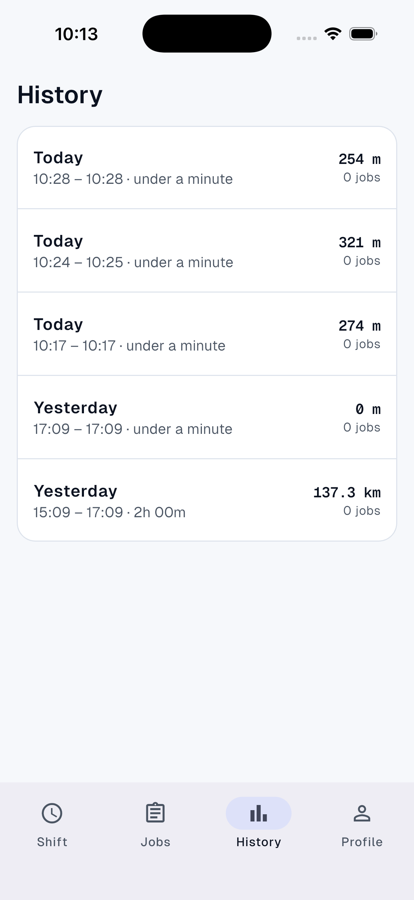
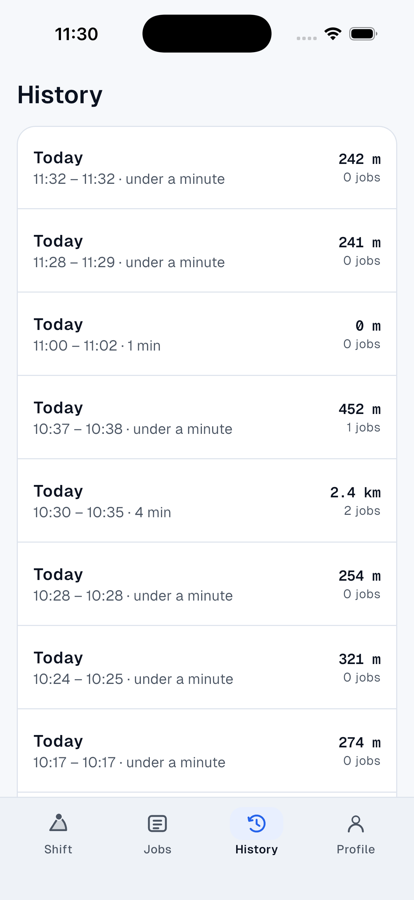
Driver app: custom tab bar matching the console's nav rail

diff --git a/mobile/lib/ui/tab_bar.dart b/mobile/lib/ui/tab_bar.dart
@@ -1,0 +1,207 @@
+import 'package:flutter/material.dart';
+
+import 'theme.dart';
+
+enum TabIcon { shift, jobs, history, profile }
+
+class TabItem {
+  const TabItem(this.icon, this.label, {this.badge = false});
+  final TabIcon icon;
+  final String label;
+
+  /// A small dot for something waiting on that tab.
+  final bool badge;
+}
+
+/// The app's tab bar, styled like the console's nav rail: a sunken strip,
+/// the console's stroke icons, and a rounded tile behind the current tab.
+/// The Shift tab is the Sweep mark; its vehicle dot turns amber while live.
+class RadianTabBar extends StatelessWidget {
+  const RadianTabBar({super.key, required this.items, required this.index, required this.onSelect, this.live = false});
+
+  final List<TabItem> items;
+  final int index;
+  final ValueChanged<int> onSelect;
+  final bool live;
+
+  @override
+  Widget build(BuildContext context) {
+    final dark = Theme.of(context).brightness == Brightness.dark;
+    // The console's --sunken, --line and --rail-active.
+    final sunken = dark ? const Color(0xFF0D1525) : const Color(0xFFEEF2F7);
+    final line = dark ? const Color(0x1AFFFFFF) : const Color(0xFFDDE3EC);
+    final tile = dark ? const Color(0xFF172238) : const Color(0xFFE8EFFE);
+    final scheme = Theme.of(context).colorScheme;
+    final accent = dark ? signalBlue : radianBlue;
+
+    return DecoratedBox(
+      decoration: BoxDecoration(color: sunken, border: Border(top: BorderSide(color: line))),
+      child: SafeArea(
+        top: false,
+        child: Padding(
+          padding: const EdgeInsets.fromLTRB(8, 6, 8, 4),
+          child: Row(children: [
+            for (var i = 0; i < items.length; i++)
+              Expanded(
+                child: _Tab(
+                  item: items[i],
+                  selected: i == index,
+                  onTap: () => onSelect(i),
+                  tile: tile,
+                  accent: accent,
+                  fg: scheme.onSurface,
+                  muted: scheme.onSurfaceVariant,
+                  ground: sunken,
+                  live: live,
+                ),
+              ),
+          ]),
+        ),
+      ),
+    );
+  }
+}
+
+class _Tab extends StatelessWidget {
+  const _Tab({
+    required this.item,
+    required this.selected,
+    required this.onTap,
+    required this.tile,
+    required this.accent,
+    required this.fg,
+    required this.muted,
+    required this.ground,
+    required this.live,
+  });
+
+  final TabItem item;
+  final bool selected;
+  final VoidCallback onTap;
+  final Color tile, accent, fg, muted, ground;
+  final bool live;
+
+  @override
+  Widget build(BuildContext context) {
+    final color = selected ? accent : muted;
+    return Semantics(
+      button: true,
+      selected: selected,
+      label: item.label,
+      excludeSemantics: true,
+      child: GestureDetector(
+        behavior: HitTestBehavior.opaque,
+        onTap: onTap,
+        child: SizedBox(
+          height: 56,
+          child: Column(mainAxisAlignment: MainAxisAlignment.center, children: [
+            AnimatedContainer(
+              duration: const Duration(milliseconds: 180),
+              curve: Curves.easeOut,
+              width: 52,
+              height: 32,
+              decoration: BoxDecoration(color: selected ? tile : tile.withValues(alpha: 0), borderRadius: BorderRadius.circular(12)),
+              child: Center(
+                child: CustomPaint(
+                  size: const Size.square(22),
+                  painter: _IconPainter(
+                    item.icon,
+                    color: color,
+                    ground: selected ? tile : ground,
+                    live: live,
+                    badge: item.badge ? accent : null,
+                  ),
+                ),
+              ),
+            ),
+            const SizedBox(height: 3),
+            Text(
+              item.label,
+              style: TextStyle(fontSize: 11.5, height: 1.1, fontWeight: selected ? FontWeight.w600 : FontWeight.w500, color: selected ? fg : muted),
+            ),
+          ]),
+        ),
+      ),
+    );
+  }
+}
+
+/// The console's icons (web/src/console/ui.tsx) on the same 24-unit grid,
+/// 2-unit round strokes.
+class _IconPainter extends CustomPainter {
+  _IconPainter(this.icon, {required this.color, required this.ground, required this.live, this.badge});
+
+  final TabIcon icon;
+  final Color color;
+  final Color ground;
+  final bool live;
+  final Color? badge;
+
+  @override
+  void paint(Canvas canvas, Size size) {
+    canvas.scale(size.width / 24);
+    final stroke = Paint()
+      ..style = PaintingStyle.stroke
+      ..strokeWidth = 2
+      ..strokeCap = StrokeCap.round
+      ..strokeJoin = StrokeJoin.round
+      ..color = color;
+
+    switch (icon) {
+      case TabIcon.shift:
+        // The Sweep filling the grid: origin (3.5, 19), radius 17, one radian.
+        const vehicle = Offset(12.69, 4.7);
+        final wedge = Path()
+          ..moveTo(3.5, 19)
+          ..lineTo(20.5, 19)
+          ..arcToPoint(vehicle, radius: const Radius.circular(17), clockwise: false)
+          ..close();
+        canvas.drawPath(wedge, Paint()..color = color.withValues(alpha: 0.18));
+        canvas.drawPath(wedge, stroke);
+        canvas.drawCircle(vehicle, 4.6, Paint()..color = ground);
+        canvas.drawCircle(vehicle, 3.3, Paint()..color = live ? liveAmber : color);
+      case TabIcon.jobs:
+        canvas.drawRRect(RRect.fromLTRBR(3, 4, 21, 20, const Radius.circular(3)), stroke);
+        canvas.drawPath(
+          Path()
+            ..moveTo(8, 9)
+            ..lineTo(16, 9)
+            ..moveTo(8, 13)
+            ..lineTo(16, 13)
+            ..moveTo(8, 17)
+            ..lineTo(13, 17),
+          stroke,
+        );
+      case TabIcon.history:
+        // A clock face turning back: the arc stops short of its arrowhead.
+        canvas.drawArc(Rect.fromCircle(center: const Offset(12, 12), radius: 8.5), 3.5, 5.2, false, stroke);
+        canvas.drawPath(
+          Path()
+            ..moveTo(3.4, 5.6)
+            ..lineTo(4.1, 9.2)
+            ..lineTo(7.7, 8.5)
+            ..moveTo(12, 8)
+            ..lineTo(12, 12.5)
+            ..lineTo(15, 14.5),
+          stroke,
+        );
+      case TabIcon.profile:
+        canvas.drawCircle(const Offset(12, 8), 3.8, stroke);
+        canvas.drawPath(
+          Path()
+            ..moveTo(4.5, 20.5)
+            ..arcToPoint(const Offset(19.5, 20.5), radius: const Radius.circular(7.5)),
+          stroke,
+        );
+    }
+
+    final b = badge;
+    if (b != null) {
+      canvas.drawCircle(const Offset(20.5, 3.5), 4, Paint()..color = ground);
+      canvas.drawCircle(const Offset(20.5, 3.5), 2.8, Paint()..color = b);
+    }
+  }
+
+  @override
+  bool shouldRepaint(_IconPainter old) => old.icon != icon || old.color != color || old.ground != ground || old.live != live || old.badge != badge;
+}

diff --git a/mobile/lib/ui/home_screen.dart b/mobile/lib/ui/home_screen.dart
@@ -14,6 +14,7 @@ import '../tracking/readiness.dart';
 import '../tracking/status.dart';
 import 'format.dart';
 import 'shift_views.dart';
+import 'tab_bar.dart';
 import 'tabs.dart';
 
 class HomeScreen extends StatefulWidget {
@@ -462,17 +463,18 @@ class _HomeScreenState extends State<HomeScreen> with WidgetsBindingObserver {
       ]),
       bottomNavigationBar: offer
           ? null
-          : NavigationBar(
-              selectedIndex: _tab,
-              onDestinationSelected: (i) {
+          : RadianTabBar(
+              index: _tab,
+              live: onShift,
+              onSelect: (i) {
                 setState(() => _tab = i);
                 if (i == 1) _refreshToday();
               },
-              destinations: const [
-                NavigationDestination(icon: Icon(Icons.schedule_outlined), selectedIcon: Icon(Icons.schedule), label: 'Shift'),
-                NavigationDestination(icon: Icon(Icons.assignment_outlined), selectedIcon: Icon(Icons.assignment), label: 'Jobs'),
-                NavigationDestination(icon: Icon(Icons.bar_chart_outlined), selectedIcon: Icon(Icons.bar_chart), label: 'History'),
-                NavigationDestination(icon: Icon(Icons.person_outline), selectedIcon: Icon(Icons.person), label: 'Profile'),
+              items: [
+                const TabItem(TabIcon.shift, 'Shift'),
+                TabItem(TabIcon.jobs, 'Jobs', badge: job != null && _tab != 1),
+                const TabItem(TabIcon.history, 'History'),
+                const TabItem(TabIcon.profile, 'Profile'),
               ],
             ),
     );

diff --git a/README.md b/README.md
@@ -49,7 +49,7 @@ PostGIS, and a Next.js dashboard renders the live fleet with MapLibre + deck.gl.
   <tr>
     <td><b>On shift</b> (Android, dark). The amber dot is you: the live vehicle on the dispatcher's map.</td>
     <td><b>Shift complete.</b> Distance, driving time and jobs, with the route driven.</td>
-    <td><b>History.</b> Past shifts; tap one for its route and totals. Also Jobs and Profile tabs.</td>
+    <td><b>History.</b> Past shifts; tap one for its route and totals. On the tab bar, the Shift tab is the Sweep mark, and its dot turns amber while you're live.</td>
   </tr>
 </table>
 
